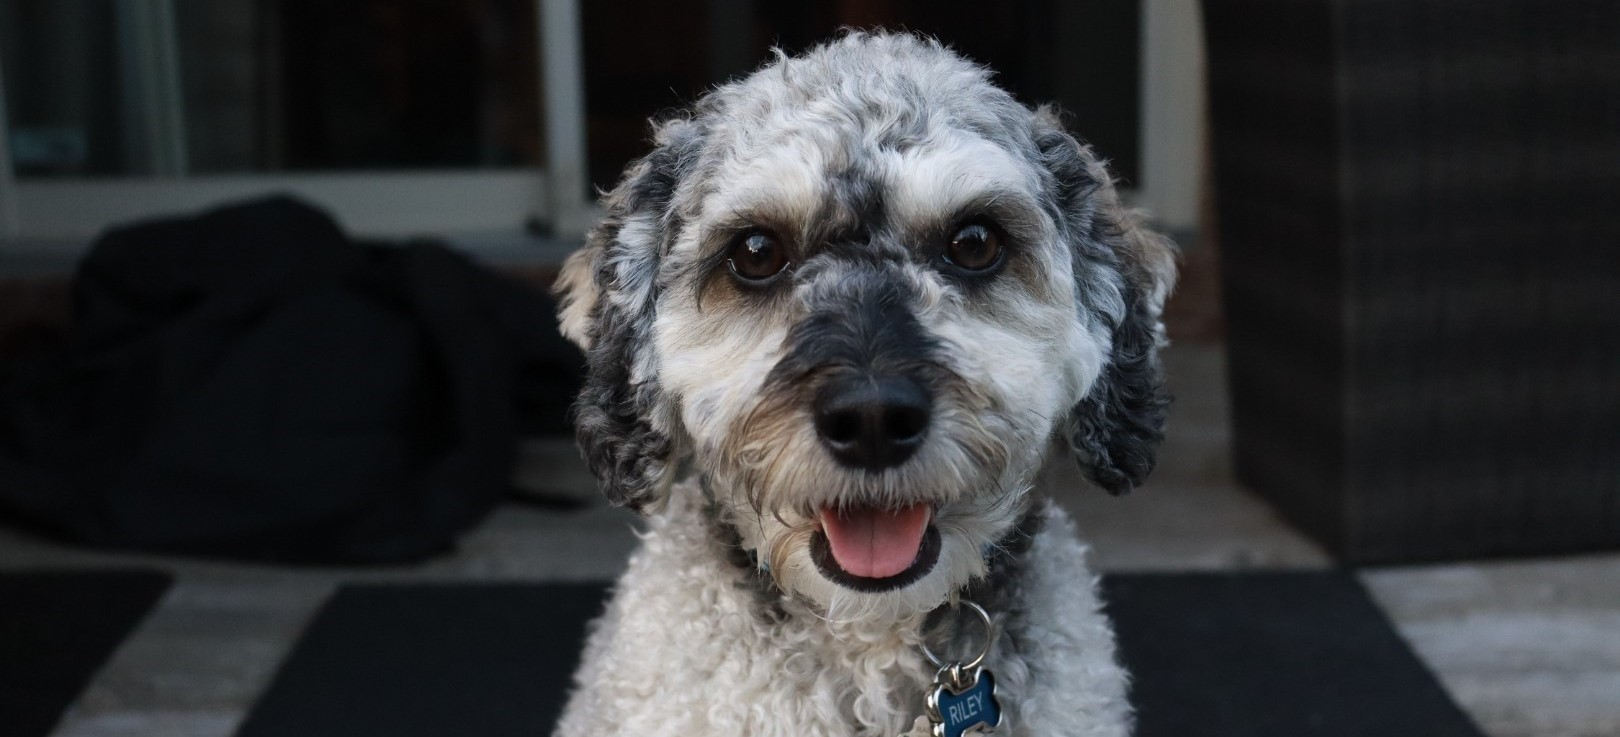
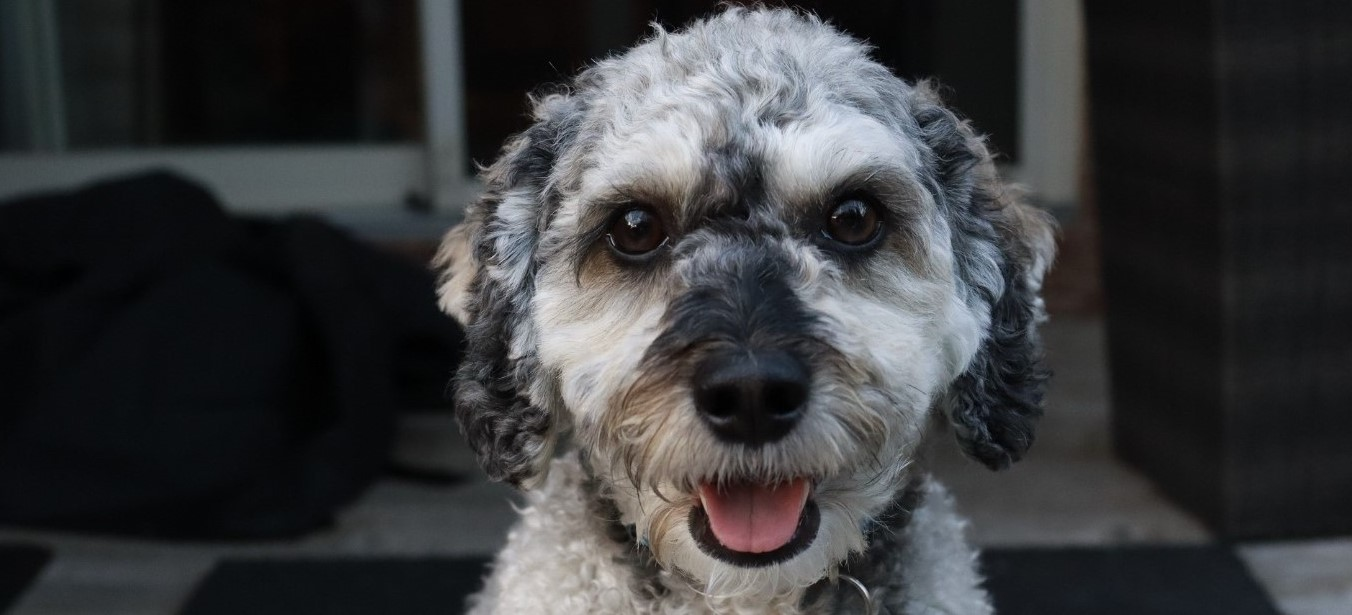
m

diff --git a/midterm/index.html b/midterm/index.html
@@ -9,11 +9,11 @@
 </head>
 <body>
     <div class="imgcontainer">
-        <img src="images/riley.jpg" class="image1">
+        <img src="images/" class="image1">
         <div class="title">Riley Cram</div>
     </div>
     <article>
-        <img src="images/riley.jpg" class="crop";>
+        <img src="images/riley2.jpg" class="crop";>
         <p>Lorem ipsum dolor sit amet consectetur adipisicing elit. Nam esse omnis totam excepturi. Magnam commodi ullam, dolorum excepturi nemo vero praesentium veritatis repudiandae, non error quis asperiores eos vitae hic? Lorem ipsum dolor sit amet consectetur adipisicing elit. Voluptatibus, odit eum omnis recusandae voluptate mollitia odio nihil labore accusamus, earum dolore facere nulla animi tempora porro accusantium magnam beatae optio. Lorem ipsum dolor sit amet consectetur adipisicing elit. Nihil voluptates dolorum similique sed quibusdam libero consectetur. Est, natus accusantium. Quam assumenda vero exercitationem obcaecati eaque nostrum ut molestias harum eum. Lorem, ipsum dolor sit amet consectetur adipisicing elit. Odit neque perspiciatis cum harum nihil dolorum cumque quis dolores ullam quia rerum, tempora sed mollitia labore eos earum unde magnam dolorem. Lorem ipsum dolor sit, amet consectetur adipisicing elit. Laborum accusamus placeat dolores a vel iusto sapiente possimus quisquam eaque hic assumenda sed, at beatae, esse, excepturi maxime tempora modi est? Lorem ipsum dolor sit amet consectetur adipisicing elit. Voluptatem modi tempora corporis perferendis ea, possimus blanditiis voluptas, dolor perspiciatis aspernatur pariatur, facere aperiam esse libero sunt omnis magnam quam! Ipsum. Lorem ipsum dolor, sit amet consectetur adipisicing elit. Iste ipsam iusto facilis nisi modi laudantium temporibus debitis, omnis molestiae similique recusandae assumenda ad enim! Et voluptatem quidem incidunt officiis autem? Lorem ipsum dolor sit amet consectetur, adipisicing elit. Quis placeat delectus cumque, incidunt autem pariatur, culpa possimus sint, eius natus repellat dolores in. Rerum tempora dicta quis deserunt iure ipsum! Lorem ipsum dolor sit amet consectetur adipisicing elit. Vitae, sed optio. Veniam unde, eveniet illo quia rerum perferendis vel, optio, modi laboriosam facere obcaecati magni quibusdam. Pariatur consectetur expedita voluptatibus. Lorem ipsum dolor sit amet consectetur adipisicing elit. Voluptatum doloribus exercitationem provident officia consequuntur earum quibusdam accusamus laudantium nostrum, dolor rerum quidem ut laboriosam dignissimos. Omnis eveniet asperiores odit esse.</p>
     </article> 
     <div>
